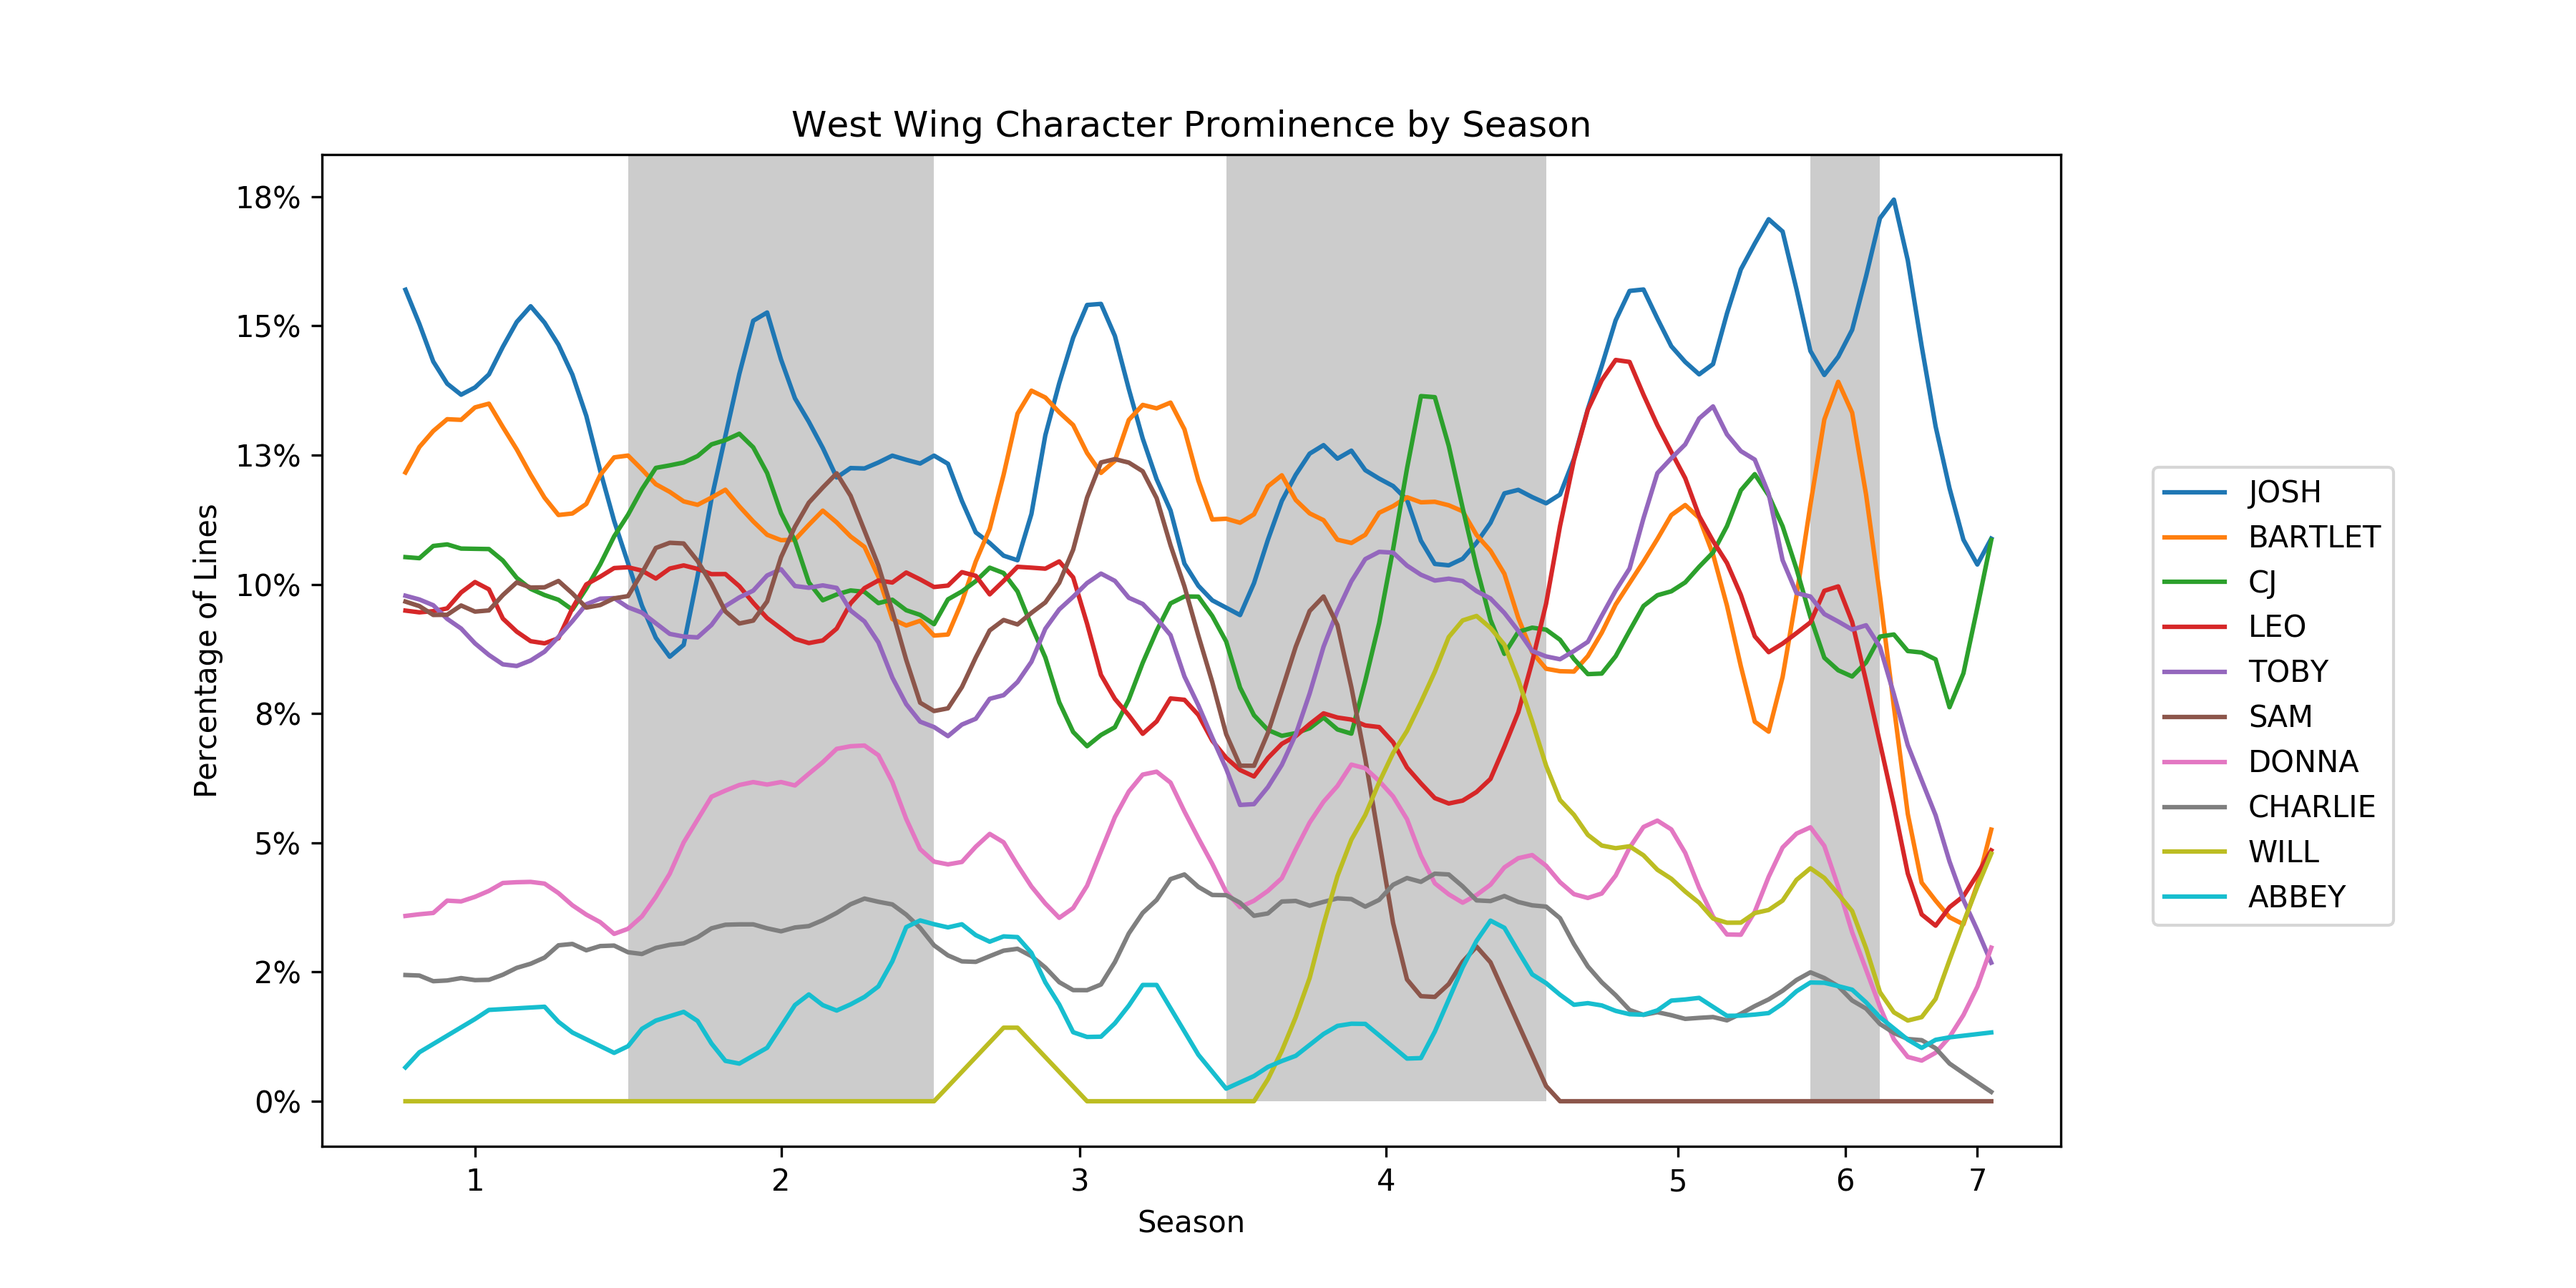
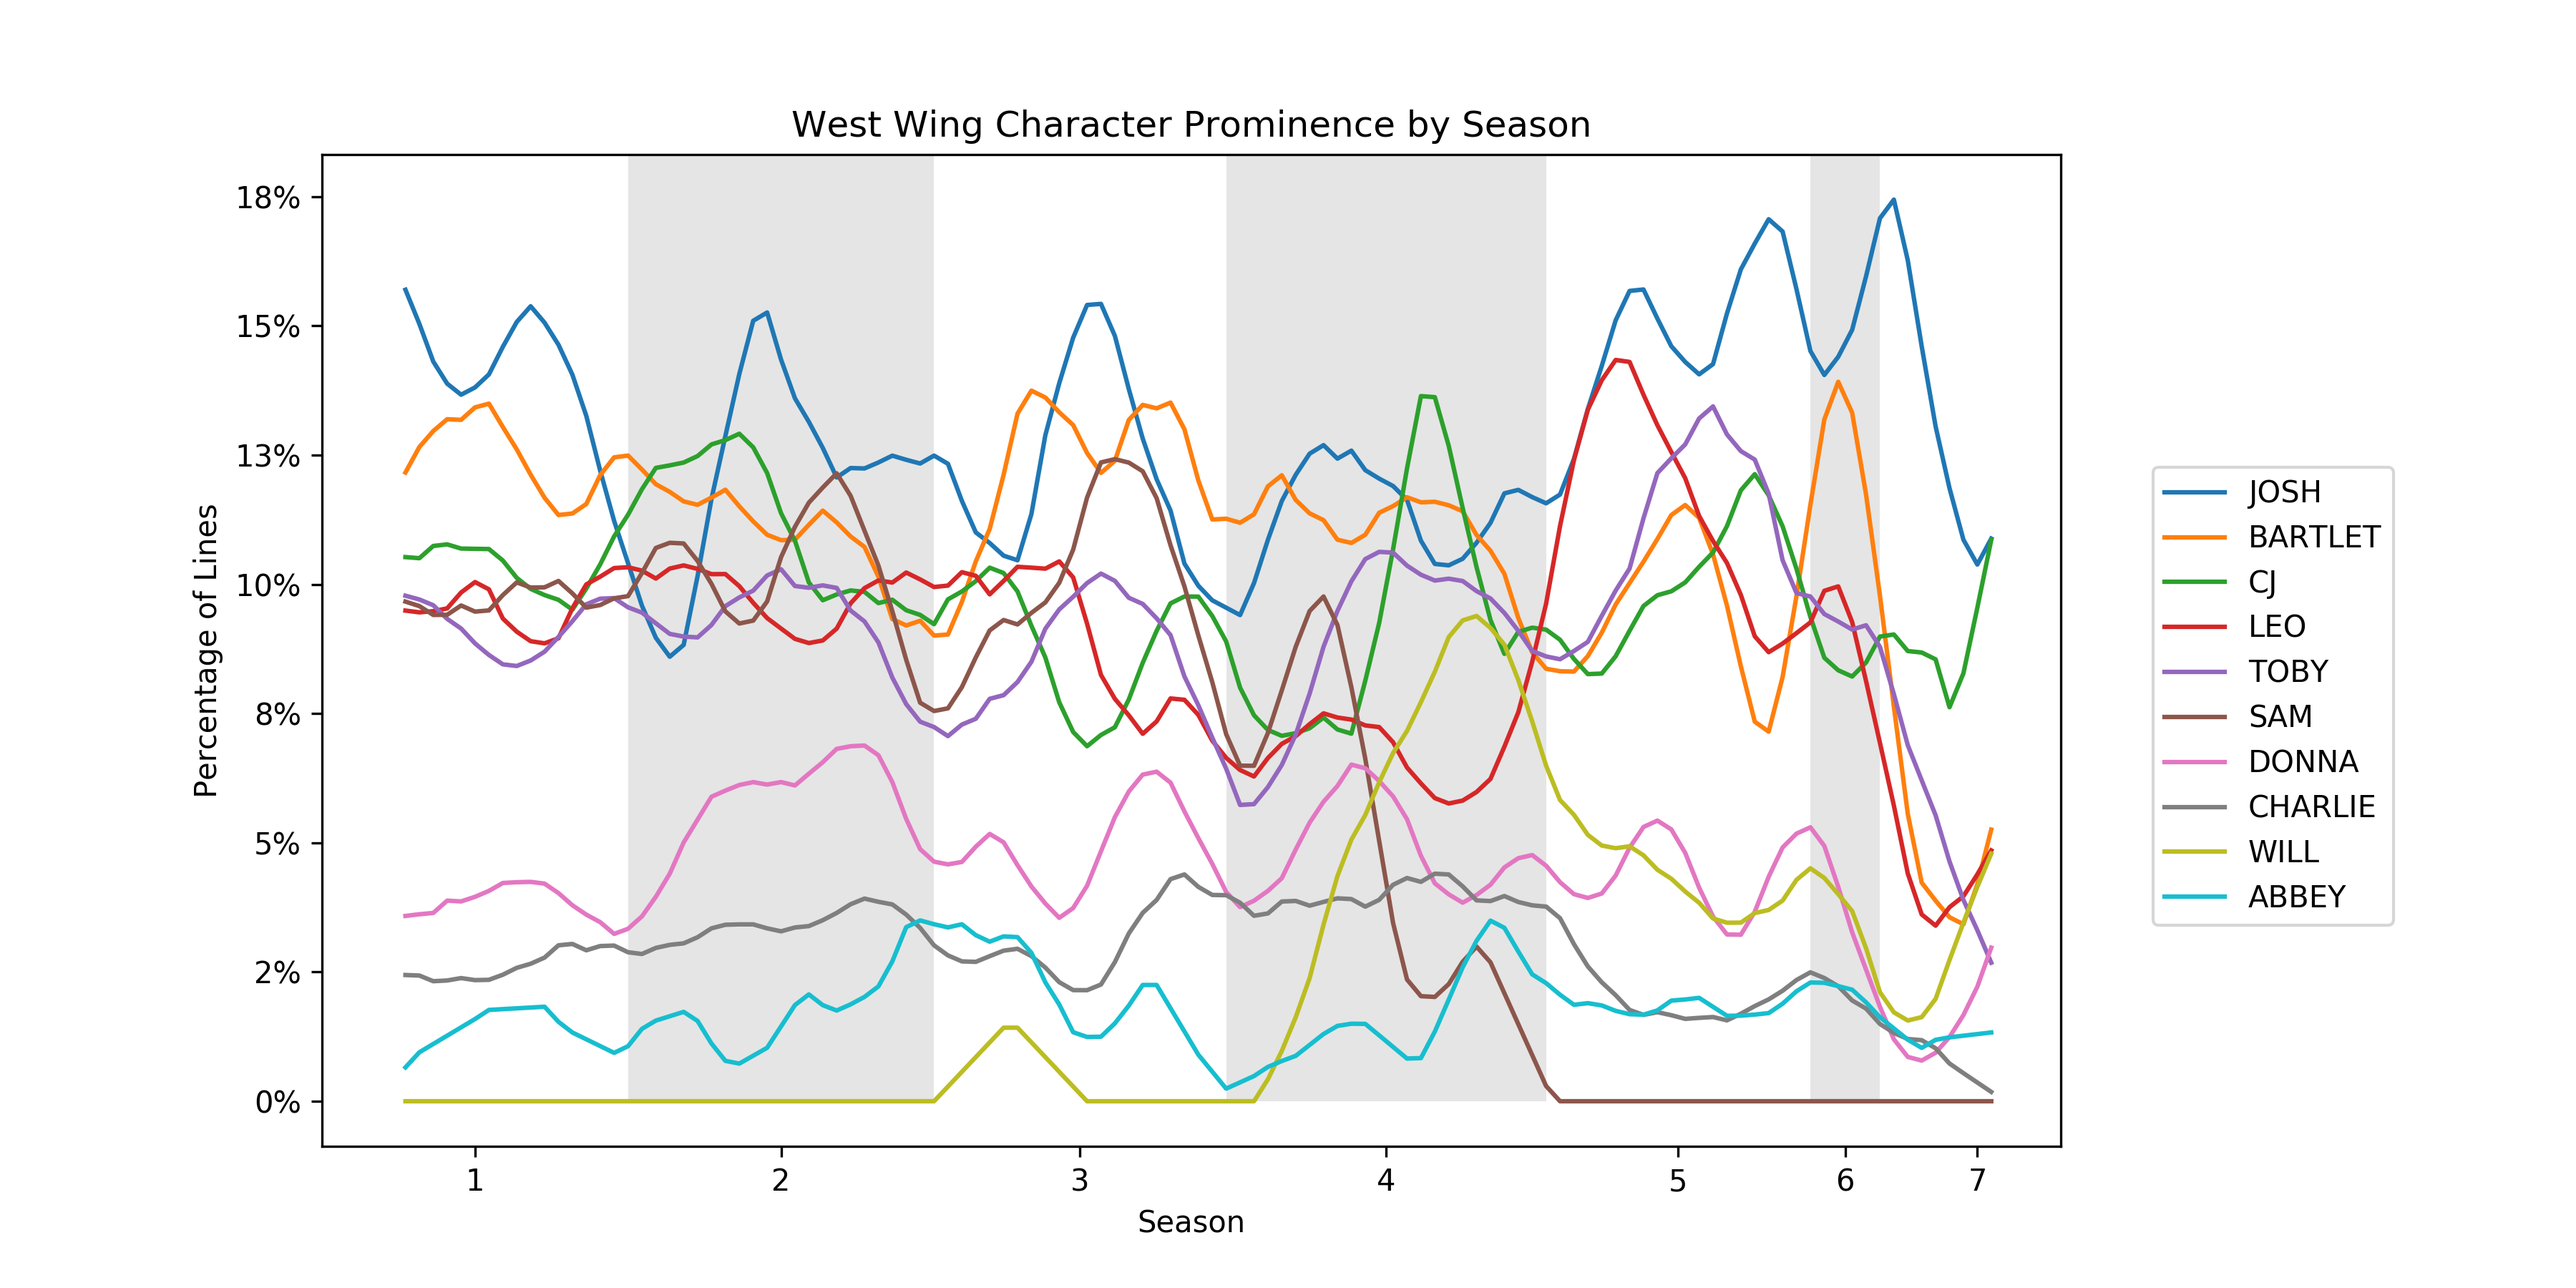
minor image tweak

Changed region(s): [[0.4667, 0.1244, 0.6222, 0.8711], [0.2178, 0.1244, 0.3733, 0.8711], [0.6844, 0.1244, 0.7467, 0.8711]]

diff --git a/west_wing/analyze.py b/west_wing/analyze.py
@@ -69,7 +69,7 @@ def plot_character_arcs(data):
                     (x1,0), 
                     x2-x1, 1,
                     facecolor='#000000',
-                    alpha=0.2
+                    alpha=0.1
                     )
                 )
     ax.set_xlabel("Season")
